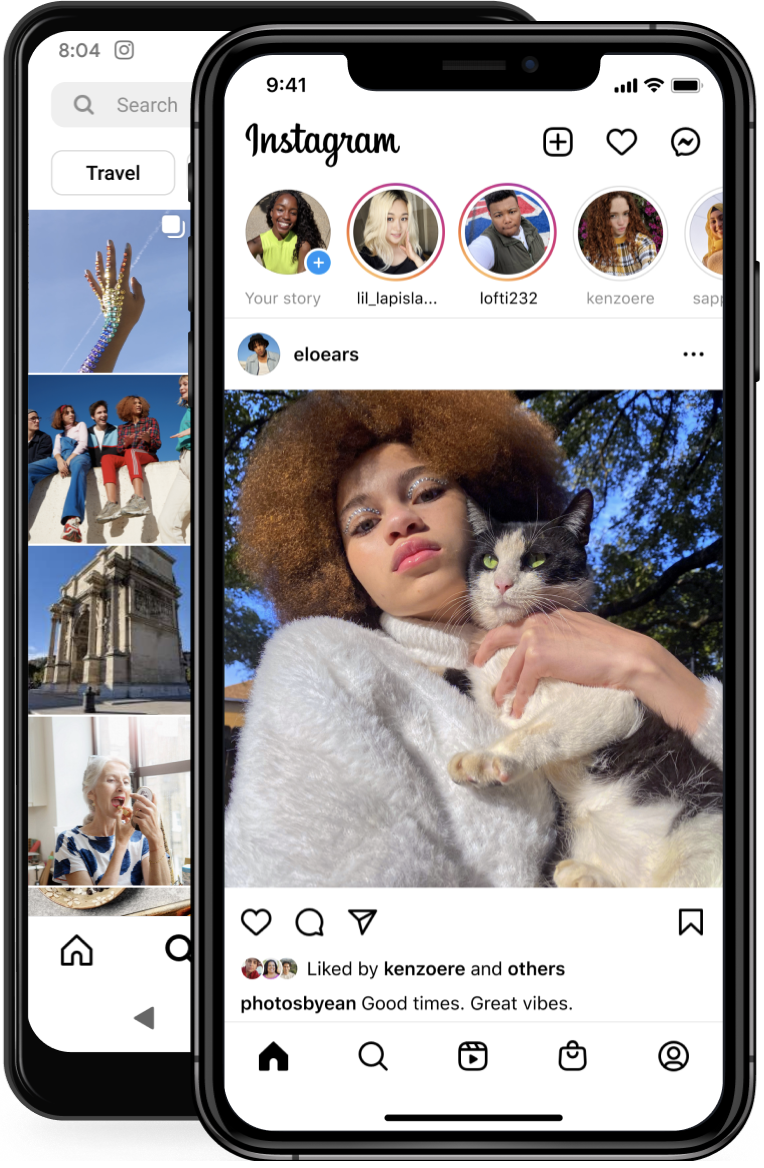
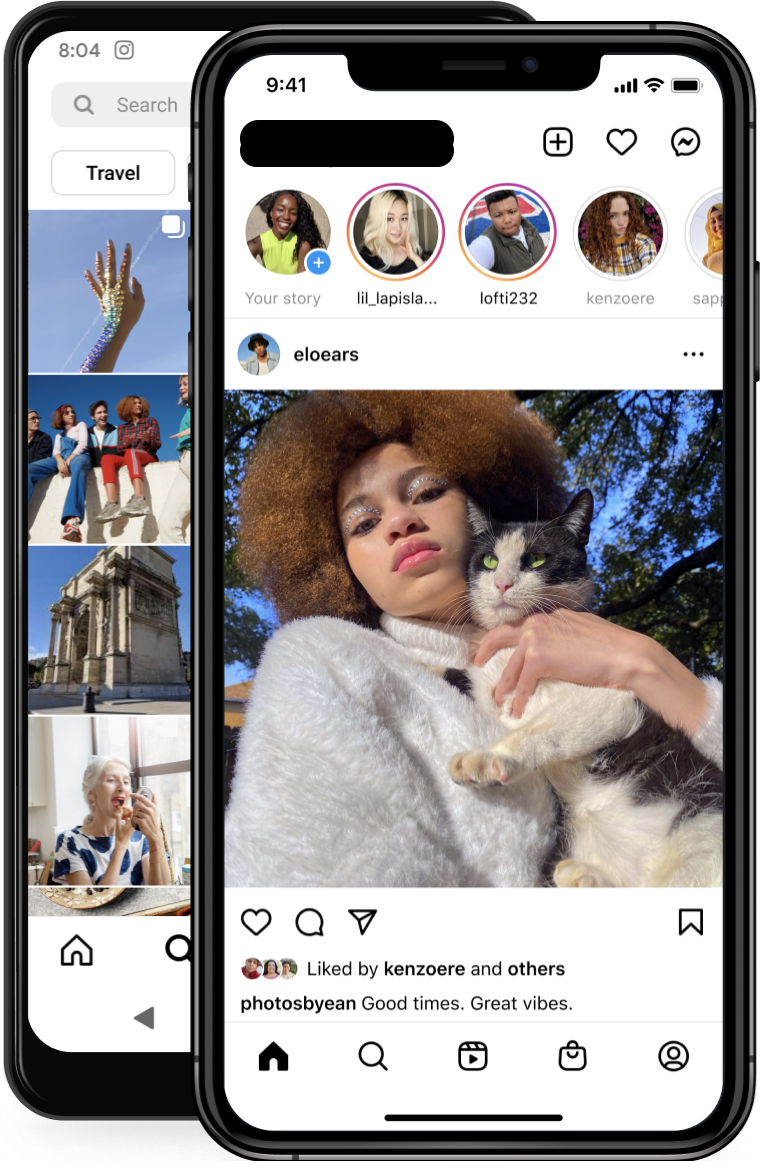
responsive mobile

Changed region(s): [[0.301, 0.0925, 0.6021, 0.1541]]

diff --git a/src/pages/home/Home.tsx b/src/pages/home/Home.tsx
@@ -1,19 +1,11 @@
 import React, { useEffect, useState } from 'react'
 import './Home.scss'
 import { UserAuth } from '@src/context/AuthContext'
-import { logOut } from '@src/functions/Auth'
-import {
-  CreateIcon,
-  HomeIcon,
-  InstagramWordWhite,
-  MoreIcon,
-  ReelsIcon,
-  SearchIcon
-} from '@images'
 import ContentPost from '@src/common/components/content-post/ContentPost'
 import AddPost from '@src/common/components/add-post/AddPost'
 import { getAllPosts } from '@src/functions/Posts'
 import { newPostType } from '@src/common/types'
+import SideNav from '@src/components/sidenav/SideNav'
 
 const Home: React.FC<{}> = () => {
   const { user } = UserAuth()
@@ -32,46 +24,7 @@ const Home: React.FC<{}> = () => {
         <button onClick={() => logOut()}>Log out</button>
       </div> */}
       {showAddPost && <AddPost user={user} closeAddPost={setShowAddPost} />}
-      <div className="side-navigation">
-        <div>
-          <div className="logo">
-            <img
-              src={InstagramWordWhite}
-              width={100}
-              height={30}
-              className="insta-word"
-            />
-          </div>
-          <div className="nav-item">
-            <img src={HomeIcon} height={26} className="icon-nav" />
-            Home
-          </div>
-          <div className="nav-item">
-            <img src={SearchIcon} height={26} className="icon-nav" />
-            Search
-          </div>
-          <div className="nav-item">
-            <img src={ReelsIcon} height={26} className="icon-nav" />
-            Reels
-          </div>
-          <div
-            className="nav-item"
-            onClick={() => setShowAddPost(!showAddPost)}
-          >
-            <img src={CreateIcon} height={26} className="icon-nav" />
-            Create
-          </div>
-          <div className="nav-item">
-            <img src={HomeIcon} height={26} className="icon-nav" />
-            Profile
-          </div>
-        </div>
-        <div className="nav-item" onClick={logOut}>
-          <img src={MoreIcon} height={26} className="icon-nav" />
-          {/* More */}
-          Log out
-        </div>
-      </div>
+      <SideNav setShowAddPost={setShowAddPost} />
       <div className="main-container">
         <div className="main-content">
           {posts.map((post: newPostType) => {

diff --git a/src/components/sidenav/SideNav.tsx b/src/components/sidenav/SideNav.tsx
@@ -1,0 +1,52 @@
+import React from 'react'
+import './SideNav.scss'
+import { logOut } from '@src/functions/Auth'
+import {
+  CreateIcon,
+  HomeIcon,
+  LogOutIcon,
+  MainLogo,
+  ReelsIcon,
+  SearchIcon
+} from '@images'
+
+interface SideNavType {
+  setShowAddPost: React.Dispatch<React.SetStateAction<boolean>>
+}
+const SideNav: React.FC<SideNavType> = ({ setShowAddPost }) => {
+  return (
+    <div className="side-navigation">
+      <div>
+        <div className="logo">
+          <img src={MainLogo} width="100%" className="insta-word" />
+        </div>
+        <div className="nav-item">
+          <img src={HomeIcon} height={26} className="icon-nav" />
+          <span className="nav-text">Home</span>
+        </div>
+        <div className="nav-item">
+          <img src={SearchIcon} height={26} className="icon-nav" />
+          <span className="nav-text">Search</span>
+        </div>
+        <div className="nav-item">
+          <img src={ReelsIcon} height={26} className="icon-nav" />
+          <span className="nav-text">Reels</span>
+        </div>
+        <div className="nav-item" onClick={() => setShowAddPost(true)}>
+          <img src={CreateIcon} height={26} className="icon-nav" />
+          <span className="nav-text">Create</span>
+        </div>
+        <div className="nav-item">
+          <img src={HomeIcon} height={26} className="icon-nav" />
+          <span className="nav-text">Profile</span>
+        </div>
+      </div>
+      <div className="nav-item" onClick={logOut}>
+        <img src={LogOutIcon} height={26} className="icon-nav" />
+        <span className="nav-text">Log out</span>
+      </div>
+    </div>
+  )
+}
+
+export default SideNav

diff --git a/src/pages/home/Home.scss b/src/pages/home/Home.scss
@@ -8,43 +8,6 @@
   color: white;
   overflow: hidden; /* Ensure no overflow on the main home container */
 
-  .side-navigation {
-    flex: 1;
-    overflow-y: auto;
-    border-right: 2px solid #262626;
-    padding: 0.75rem;
-    display: flex;
-    flex-direction: column;
-    justify-content: space-between;
-
-    .logo {
-      padding: 1.5rem;
-      cursor: pointer;
-    }
-    .nav-item {
-      display: flex;
-      align-items: center;
-      gap: 1rem;
-      color: #f5f5f5;
-      padding: 0.75rem;
-      margin: 0.5rem 0;
-      font-size: 1rem;
-      font-weight: 500;
-      cursor: pointer;
-      border-radius: 0.5rem;
-      transition: background-color 0.5s ease;
-
-      &:hover {
-        background-color: #222;
-
-        .icon-nav {
-          transform: scale(1.1);
-          transition: transform 0.3s ease;
-        }
-      }
-    }
-  }
-
   .main-container {
     flex: 6;
     overflow-y: auto;
@@ -59,6 +22,24 @@
     }
     .main-right {
       flex: 1;
+    }
+  }
+
+  @media (max-width: 1000px) {
+    .main-container {
+      flex: 5 !important;
+    }
+  }
+
+  @media (max-width: 800px) {
+    .main-container {
+      flex: 4 !important;
+    }
+  }
+
+  @media (max-width: 600px) {
+    .main-container {
+      flex: 10 !important;
     }
   }
 }

diff --git a/src/components/sidenav/SideNav.scss b/src/components/sidenav/SideNav.scss
@@ -1,0 +1,51 @@
+.side-navigation {
+  flex: 1;
+  overflow-y: auto;
+  border-right: 2px solid #262626;
+  padding: 0.75rem;
+  display: flex;
+  flex-direction: column;
+  justify-content: space-between;
+
+  .logo {
+    padding: 1.5rem 0;
+    cursor: pointer;
+  }
+  .nav-item {
+    display: flex;
+    align-items: center;
+    gap: 1rem;
+    color: #f5f5f5;
+    padding: 0.75rem;
+    margin: 0.5rem 0;
+    font-size: 1rem;
+    font-weight: 500;
+    cursor: pointer;
+    border-radius: 0.5rem;
+    transition: background-color 0.5s ease;
+
+    &:hover {
+      background-color: #222;
+
+      .icon-nav {
+        transform: scale(1.1);
+        transition: transform 0.3s ease;
+      }
+    }
+  }
+
+  @media (max-width: 700px) and (min-width: 600px) {
+    .nav-item {
+      padding-right: 0;
+    }
+  }
+
+  @media (max-width: 600px) {
+    .nav-text {
+      display: none;
+    }
+    .nav-item {
+      justify-content: center;
+    }
+  }
+}

diff --git a/src/components/signin-login/SignupLogin.tsx b/src/components/signin-login/SignupLogin.tsx
@@ -1,6 +1,13 @@
 import React, { useEffect, useState } from 'react'
 import './SignupLogin.scss'
-import { GoogleIcon, HideIcon, InstagramWord, Loading, ShowIcon } from '@images'
+import {
+  GoogleIcon,
+  HideIcon,
+  InstagramWord,
+  Loading,
+  MainLogo,
+  ShowIcon
+} from '@images'
 import { useNavigate } from 'react-router-dom'
 import {
   FormLabel,
@@ -101,12 +108,7 @@ const SignupLogin: React.FC<SignupLoginType> = ({ type }) => {
   return (
     <div className="signin-login">
       <div className="main-login">
-        <img
-          src={InstagramWord}
-          width={200}
-          height={70}
-          className="insta-word"
-        />
+        <img src={MainLogo} height={70} className="insta-word" />
         <div className="form">
           {type == SignupLoginEnum.SIGNUP && (
             <>

diff --git a/src/common/components/add-post/AddPost.tsx b/src/common/components/add-post/AddPost.tsx
@@ -19,10 +19,10 @@ const AddPost: React.FC<{ closeAddPost: any; user: any }> = ({
       ? event?.target?.files[0]
       : ''
     if (selectedFile) setImg(selectedFile)
-    // if (selectedFile.size > 100000) {
-    //   toast.warning('Cannot select file more than 1mb')
-    //   return
-    // }
+    if (selectedFile?.size > 500000) {
+      toast.warning('Cannot select file more than 5mb')
+      return
+    }
 
     // For previewing the image (if it's an image file)
     const reader = new FileReader()

diff --git a/src/common/constants/constants.ts b/src/common/constants/constants.ts
@@ -25,7 +25,7 @@ export enum RedirectUrls {
 export enum SignupLoginVariable {
   SIGNIN_MESSAGE = 'Sign up to see photos and videos from your friends.',
   GOOGLE_LOGIN = 'Log in with Google',
-  DETAIL_MESSAGE = 'People who use our service may have uploaded your contact information to Instagram. ',
+  DETAIL_MESSAGE = 'People who use our service may have uploaded your contact information to Igram. ',
   LEARN_MORE = 'Learn More',
   BY_SIGNUP = 'By signing up, you agree to our ',
   TERMS = 'Terms, ',

diff --git a/src/assets/images/index.ts b/src/assets/images/index.ts
@@ -19,6 +19,8 @@ import CrossIcon from './Cross-icon.svg'
 import BackIcon from './Back-icon.svg'
 import ThreeDotsIcon from './Three-dots-icon.svg'
 import LikedIcon from './Liked-icon.svg'
+import LogOutIcon from './LogOut-icon.svg'
+import MainLogo from './Main-logo.jpeg'
 
 export {
   SpinnerGif,
@@ -41,5 +43,7 @@ export {
   SaveIcon,
   BackIcon,
   ThreeDotsIcon,
-  LikedIcon
+  LikedIcon,
+  LogOutIcon,
+  MainLogo
 }

diff --git a/src/components/footer/Footer.tsx b/src/components/footer/Footer.tsx
@@ -4,7 +4,7 @@ import './Footer.scss'
 function Footer() {
   return (
     <footer className="footer">
-      <div className="centerContainer">© 2024 Instagram(dev) from Mani</div>
+      <div className="centerContainer">© 2024 Igram(dev) from Mani</div>
     </footer>
   )
 }

diff --git a/src/common/components/content-post/ContentPost.scss b/src/common/components/content-post/ContentPost.scss
@@ -88,3 +88,9 @@
     }
   }
 }
+
+@media (max-width: 550px) {
+  .post {
+    width: 100% !important;
+  }
+}
